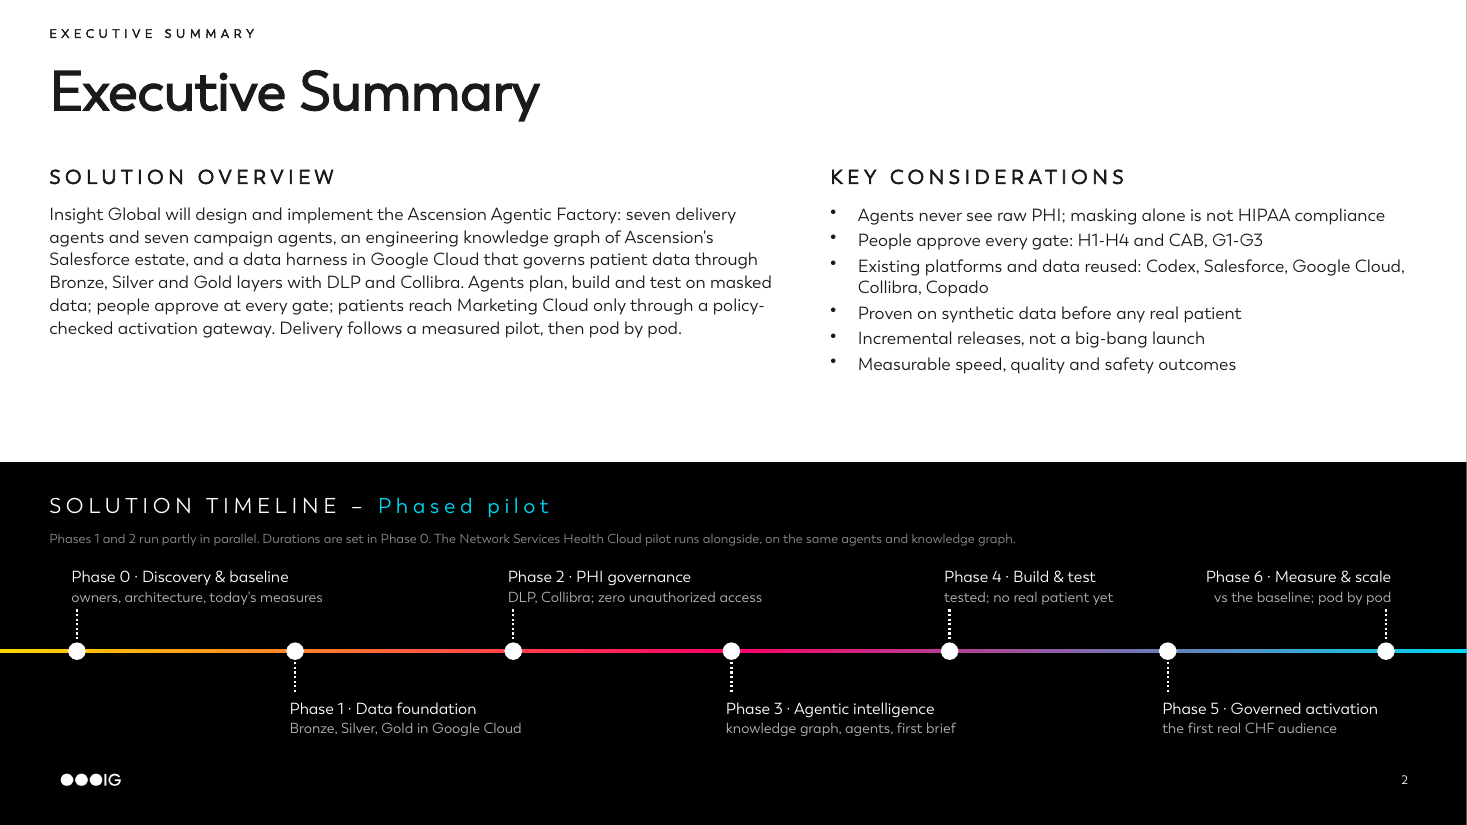
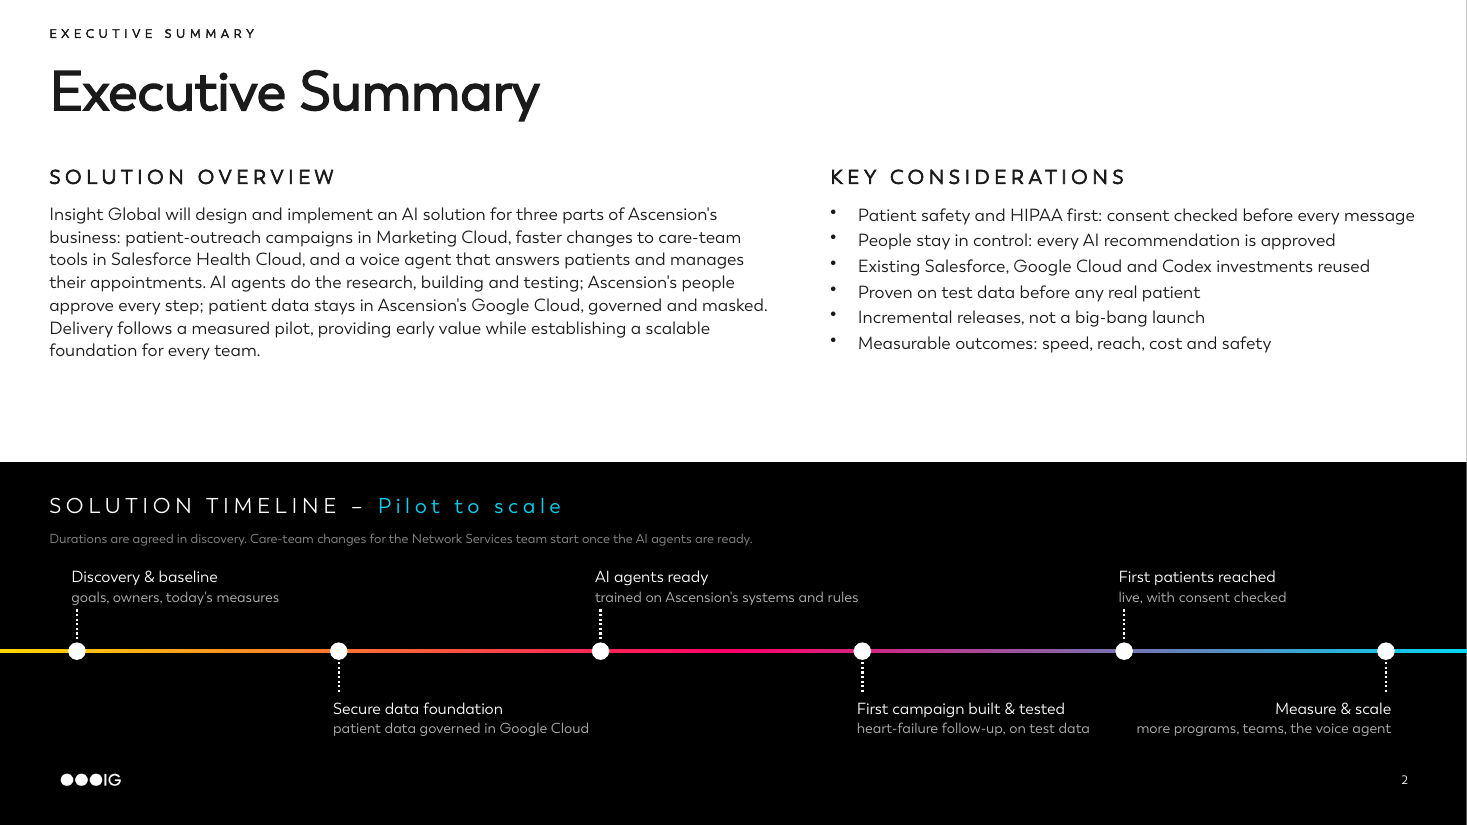
Rewrite the two-slide executive summary around business outcomes
Patients reached sooner, care-team tools changed faster, routine calls
handled, lower cost and patient data kept safe; agent names, data layers
and gate codes left to the full deck. The timeline runs pilot to scale in
six business steps.

Claude-Session: https://claude.ai/code/session_01Hf94kqMzSofkkrQm7kpNba

diff --git a/poc/data_harness/exec_summary.py b/poc/data_harness/exec_summary.py
@@ -1,8 +1,8 @@
 """Two-slide executive summary for the Ascension Agentic Factory, in the IG proposal style: white page, spaced
 section headings, prose and bullets; slide 2 ends in a black timeline band.
 
-1 Our understanding · Results & value · Why Insight Global
-2 Solution overview · Key considerations · Solution timeline (the build phases of the full deck)
+1 Our understanding · Results & value · Why Insight Global, in business terms
+2 Solution overview · Key considerations · Solution timeline, pilot to scale
 
     python3 exec_summary.py
 """
@@ -50,13 +50,13 @@ def page_head(cv):
 NOTES_1 = """SLIDE: Executive summary (1 of 2)   (about 2 minutes)
 
 OUR UNDERSTANDING
-Ascension wants faster Salesforce delivery and faster Marketing Cloud campaigns without loosening control of patient data. Today a Health Cloud change takes about two weeks and a campaign about 90 days; much of that is manual research, impact analysis, test writing, and data preparation repeated for every campaign. The Agentic Factory brings AI agents to Health Cloud delivery, Marketing Cloud campaigns and the Sierra voice agent on one governed platform. We start with one Health Cloud pod and one campaign, then add pods one at a time.
+Ascension wants to use AI to reach patients sooner, serve them better and run its digital operations at lower cost, without putting patient data at risk. Today a patient-outreach campaign takes about 90 days to launch, a change to care-team tools in Salesforce takes about two weeks, and routine patient calls depend on staff. The Ascension Agentic Factory brings AI to all three on one secure, HIPAA-aligned platform. We start with post-discharge follow-up for heart-failure patients and the Network Services team, then add programs and teams.
 
 RESULTS & VALUE
-About 2 days per Health Cloud change instead of about 2 weeks; about 10-12 days per campaign instead of about 90; squads of about 2.4 people instead of 5-7; about $19.9M saved over three years. All are pilot targets and planning estimates, confirmed against the Phase 0 baseline.
+Campaigns in about 10-12 days instead of about 90; care-team changes in about 2 days instead of about 2 weeks; consent checked before every message; routine calls answered by the voice agent with a hand-off to staff; about $19.9M saved over three years. The figures are pilot targets and planning estimates, confirmed against today's baseline.
 
 WHY INSIGHT GLOBAL
-It runs on what Ascension already owns; agent-assisted delivery is already measured at Ascension (1-2 weeks to 2-4 days); safety is designed in; the Change Guardian protects every pod; and the rollout is measured and incremental."""
+Healthcare-ready and HIPAA-aligned by design; already proven at Ascension (agent-assisted delivery took changes from 1-2 weeks to 2-4 days); built on Ascension's existing Salesforce, Google Cloud and Codex; outcome-led and delivered in small releases."""
 
 
 def slide_1(prs, layout):
@@ -66,40 +66,39 @@ def slide_1(prs, layout):
     page_head(cv)
     heading(cv, 0.45, 1.22, 8, "OUR UNDERSTANDING")
     cv.text(0.45, 1.58, 12.43, 1.5, [
-        "Ascension is seeking to speed up Salesforce delivery and Marketing Cloud campaigns while keeping patient "
-        "data governed. Today a Health Cloud change takes about two weeks and a campaign about 90 days, much of it "
-        "manual research, impact analysis, test writing and data preparation repeated for every campaign. The "
-        "Agentic Factory brings AI agents to Health Cloud delivery, Marketing Cloud campaigns and the Sierra voice "
-        "agent, on one governed platform.",
-        "The initial focus will be one Health Cloud pod (Network Services) and one campaign (the CHF post-discharge "
-        "nudge), followed by a pod-by-pod rollout, using a measured pilot and incremental releases."],
+        "Ascension is seeking to use AI to reach patients sooner, serve them better and run its digital operations "
+        "at lower cost, without putting patient data at risk. Today a patient-outreach campaign takes about 90 days "
+        "to launch, a change to care-team tools in Salesforce takes about two weeks, and routine patient calls depend "
+        "on staff. The Ascension Agentic Factory brings AI to all three, on one secure, HIPAA-aligned platform.",
+        "The initial focus will be post-discharge follow-up for heart-failure patients and the Network Services "
+        "team, followed by more patient programs and teams, using a measured pilot and incremental releases."],
         size=BODY, color=INK, after=10, line=1.08)
     # results & value (left) | why Insight Global (right)
     top = 3.25
     lx, lw = 0.45, 6.75
     heading(cv, lx, top, lw, "RESULTS & VALUE")
-    cv.text(lx, top + 0.38, lw, 1.0, "The solution addresses slow, manual delivery, data preparation rebuilt for "
-            "every campaign, and the risk of one pod's change breaking another. Success will be measured by cycle "
-            "time, first-pass approval, defects after release and zero unauthorized access to patient data.",
-            size=BODY, color=INK, line=1.08)
-    bullets(cv, lx, top + 1.5, lw, 1.9, [
-        "Health Cloud change: ~2 weeks to ~2 days, story to production",
-        "Campaign launch: ~90 days to ~10-12 days",
-        "Leaner squads: 5-7 people to about 2.4",
-        "About $19.9M saved over three years",
-        "Agents never see raw PHI; people approve every gate",
-        "A reusable foundation: new pods add skills, not rebuilds"])
+    cv.text(lx, top + 0.38, lw, 1.0, "The solution addresses slow launches of patient programs, manual work "
+            "repeated for every campaign and change, routine calls that tie up staff, and the risk that comes with "
+            "patient data. Success will be measured by time to launch, patients reached, cost per change and zero "
+            "unauthorized access to patient data.", size=BODY, color=INK, line=1.08)
+    bullets(cv, lx, top + 1.5, lw, 2.1, [
+        "Launch patient-outreach campaigns in ~10-12 days, not ~90",
+        "Deliver care-team tool changes in ~2 days, not ~2 weeks",
+        "Reach the right patients, with consent checked before every message",
+        "Handle routine patient calls with the voice agent; staff take the rest",
+        "Save about $19.9M over three years",
+        "Build a scalable AI foundation for future programs"])
     # dotted divider
     cv.arrow(7.55, top + 0.05, 7.55, 6.85, RULE, 2.0, dash="sysDot", head=False)
     rx, rw = 7.9, 4.98
     heading(cv, rx, top, rw, "WHY INSIGHT GLOBAL")
     bullets(cv, rx, top + 0.42, rw, 3.0, [
-        "Built on what Ascension already runs: Codex, Salesforce, Google Cloud, Collibra, Copado",
-        "Agent-assisted delivery already measured at Ascension: 1-2 weeks to 2-4 days",
-        "HIPAA-aligned by design: no raw PHI for agents, no production credentials",
-        "Change Guardian: no pod breaks another",
-        "Outcome-led pilot with measurable success criteria",
-        "Incremental, pod-by-pod rollout, not a big-bang launch"], gap=5)
+        "Healthcare-ready: HIPAA-aligned by design; AI never sees raw patient data",
+        "Proven at Ascension: agent-assisted delivery already took changes from 1-2 weeks to 2-4 days",
+        "Built on Ascension's existing Salesforce, Google Cloud and Codex investments",
+        "Outcome-led delivery with measurable success criteria",
+        "Iterative MVP approach: early value, not a big-bang launch",
+        "People stay in control: every AI recommendation is approved"], gap=5)
     set_notes(s, NOTES_1)
     return s
 
@@ -108,21 +107,20 @@ def slide_1(prs, layout):
 NOTES_2 = """SLIDE: Executive summary (2 of 2)   (about 2 minutes)
 
 SOLUTION OVERVIEW
-Insight Global designs and implements the Ascension Agentic Factory: seven delivery agents and seven campaign agents, an engineering knowledge graph of Ascension's Salesforce estate, and a data harness in Google Cloud that governs patient data through Bronze, Silver and Gold layers with DLP and Collibra. Agents plan, build and test on masked data; people approve at every gate; patients reach Marketing Cloud only through a policy-checked activation gateway.
+Insight Global designs and implements an AI solution for three parts of Ascension's business: patient-outreach campaigns in Marketing Cloud, changes to care-team tools in Salesforce Health Cloud, and the voice agent that answers patients and manages appointments. AI agents do the research, building and testing; Ascension's people approve every step; patient data stays in Ascension's Google Cloud, governed and masked.
 
 KEY CONSIDERATIONS
-No raw PHI for agents, and masking alone is not HIPAA compliance; people approve every gate; existing platforms and data are reused; everything is proven on synthetic data before any real patient; releases are incremental; outcomes are measured.
+Patient safety and HIPAA come first; people stay in control; existing investments are reused; everything is proven on test data before any real patient; releases are small and frequent; outcomes are measured.
 
 SOLUTION TIMELINE
-The seven build phases of the full deck, in order: discovery and baseline; the data foundation; PHI governance (its exit is a hard gate: zero unauthorized access in tests); agentic intelligence; build and test on synthetic data; governed activation with the first real CHF audience; then measure against the baseline and scale pod by pod. Phases 1 and 2 run partly in parallel. Durations are set in Phase 0. The Network Services Health Cloud pilot runs alongside, on the same agents and knowledge graph."""
+Six steps: agree goals and measure today; set up the secure data foundation; ready the AI agents on Ascension's own systems and rules; build and test the first campaign on test data; reach the first real patients; then measure and scale to more programs, teams and the voice agent. Durations are agreed in discovery. Care-team changes for the Network Services team start once the agents are ready."""
 
-PHASES = [("Phase 0 · Discovery & baseline", "owners, architecture, today's measures"),
-          ("Phase 1 · Data foundation", "Bronze, Silver, Gold in Google Cloud"),
-          ("Phase 2 · PHI governance", "DLP, Collibra; zero unauthorized access"),
-          ("Phase 3 · Agentic intelligence", "knowledge graph, agents, first brief"),
-          ("Phase 4 · Build & test", "tested; no real patient yet"),
-          ("Phase 5 · Governed activation", "the first real CHF audience"),
-          ("Phase 6 · Measure & scale", "vs the baseline; pod by pod")]
+PHASES = [("Discovery & baseline", "goals, owners, today's measures"),
+          ("Secure data foundation", "patient data governed in Google Cloud"),
+          ("AI agents ready", "trained on Ascension's systems and rules"),
+          ("First campaign built & tested", "heart-failure follow-up, on test data"),
+          ("First patients reached", "live, with consent checked"),
+          ("Measure & scale", "more programs, teams, the voice agent")]
 
 
 def slide_2(prs, layout):
@@ -134,25 +132,27 @@ def slide_2(prs, layout):
     page_head(cv)
     lx, lw = 0.45, 6.6
     heading(cv, lx, 1.45, lw, "SOLUTION OVERVIEW")
-    cv.text(lx, 1.83, lw, 2.4, "Insight Global will design and implement the Ascension Agentic Factory: seven "
-            "delivery agents and seven campaign agents, an engineering knowledge graph of Ascension's Salesforce "
-            "estate, and a data harness in Google Cloud that governs patient data through Bronze, Silver and Gold "
-            "layers with DLP and Collibra. Agents plan, build and test on masked data; people approve at every "
-            "gate; patients reach Marketing Cloud only through a policy-checked activation gateway. Delivery "
-            "follows a measured pilot, then pod by pod.", size=11.5, color=INK, line=1.08)
+    cv.text(lx, 1.83, lw, 2.3, "Insight Global will design and implement an AI solution for three parts of "
+            "Ascension's business: patient-outreach campaigns in Marketing Cloud, faster changes to care-team tools in "
+            "Salesforce Health Cloud, and a voice agent that answers patients and manages their appointments. AI "
+            "agents do the research, building and testing; Ascension's people approve every step; patient data stays "
+            "in Ascension's Google Cloud, governed and masked. Delivery follows a measured pilot, providing early "
+            "value while establishing a scalable foundation for every team.", size=11.5, color=INK, line=1.08)
     rx, rw = 7.55, 5.33
     heading(cv, rx, 1.45, rw, "KEY CONSIDERATIONS")
-    bullets(cv, rx, 1.85, rw, 2.4, [
-        "Agents never see raw PHI; masking alone is not HIPAA compliance",
-        "People approve every gate: H1-H4 and CAB, G1-G3",
-        "Existing platforms and data reused: Codex, Salesforce, Google Cloud, Collibra, Copado",
-        "Proven on synthetic data before any real patient",
+    bullets(cv, rx, 1.85, rw, 2.3, [
+        "Patient safety and HIPAA first: consent checked before every message",
+        "People stay in control: every AI recommendation is approved",
+        "Existing Salesforce, Google Cloud and Codex investments reused",
+        "Proven on test data before any real patient",
         "Incremental releases, not a big-bang launch",
-        "Measurable speed, quality and safety outcomes"], size=11.5, gap=3)
+        "Measurable outcomes: speed, reach, cost and safety"], size=11.5, gap=3)
     # ---------------------------------------------------------------- timeline band
     cv.text(0.45, band + 0.22, 12.4, 0.34, [[("SOLUTION TIMELINE – ", {"color": "FFFFFF"}),
-                                            ("Phased pilot", {"color": CYAN})]], size=14, track=300,
+                                            ("Pilot to scale", {"color": CYAN})]], size=14, track=300,
             anchor=MSO_ANCHOR.MIDDLE)
+    cv.text(0.45, band + 0.58, 12.4, 0.22, "Durations are agreed in discovery. Care-team changes for the Network "
+            "Services team start once the AI agents are ready.", size=8.5, color="8C8C8C", anchor=MSO_ANCHOR.MIDDLE)
     ly = band + 1.7
     gbar(cv, 0, ly, 13.333, 0.04, 0)
     n = len(PHASES)
@@ -163,15 +163,12 @@ def slide_2(prs, layout):
         dy0, dy1 = (ly - 0.36, ly - 0.08) if up else (ly + 0.12, ly + 0.4)
         cv.arrow(xx, dy0, xx, dy1, "FFFFFF", 1.5, dash="sysDot", head=False)
         cv.rect(xx - 0.08, ly - 0.06, 0.16, 0.16, "FFFFFF", None, shape=MSO_SHAPE.OVAL)
-        tw = 2.05 if k >= n - 3 else 2.55         # the last labels share the right end
+        tw = 2.4
         tx = xx - 0.05 if k < n - 1 else xx - tw + 0.05
         ty = ly - 0.95 if up else ly + 0.45
         cv.text(tx, ty, tw, 0.55, [[(t, {"color": "FFFFFF"})], [(d, {"color": "B3B3B3", "size": 9.5})]],
                 size=10.5, anchor=MSO_ANCHOR.BOTTOM if up else MSO_ANCHOR.TOP,
                 align=PP_ALIGN.RIGHT if k == n - 1 else None, after=1)
-    cv.text(0.45, band + 0.58, 12.4, 0.22, "Phases 1 and 2 run partly in parallel. Durations are set in Phase 0. The "
-            "Network Services Health Cloud pilot runs alongside, on the same agents and knowledge graph.", size=8.5,
-            color="8C8C8C", anchor=MSO_ANCHOR.MIDDLE)
     set_notes(s, NOTES_2)
     return s
 
